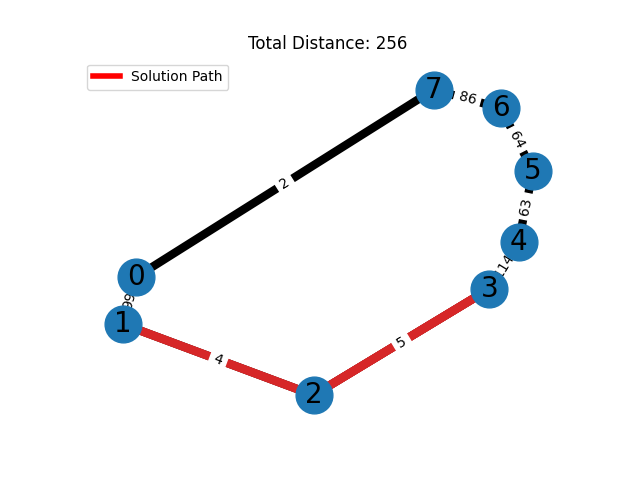
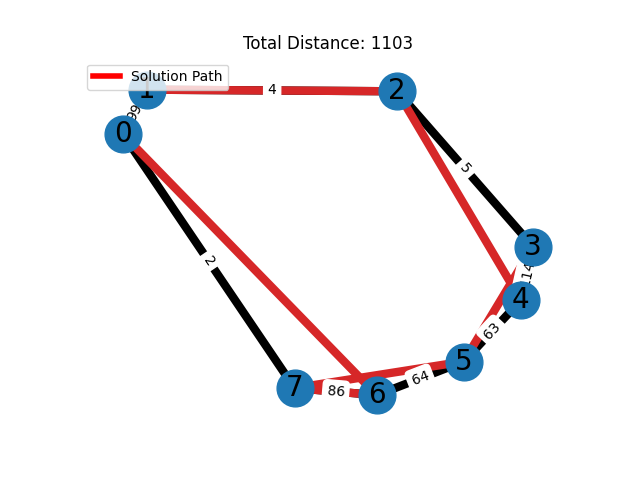
adding woc and buttons

Changed region(s): [[0.1562, 0.125, 0.875, 0.875], [0.375, 0.0625, 0.6562, 0.125]]

diff --git a/finalsourceCode.py b/finalsourceCode.py
@@ -4,20 +4,25 @@ from matplotlib.lines import Line2D
 import tkinter as tk
 from tkinter import filedialog
 import random
+import time
+
 # Define global variable to hold test data
 testdata = []
 
 # Function to open a file dialog and load test data
 def open_file():
     global testdata
-    file_path = filedialog.askopenfilename(filetypes=[("Text files", "*.txt")])
-    if file_path:
-        with open(file_path, "r") as file:
-            testdata = [list(map(int, line.split())) for line in file.readlines()]
+    try:
+        file_path = filedialog.askopenfilename(filetypes=[("Text files", "*.txt")])
+        if file_path:
+            with open(file_path, "r") as file:
+                testdata = [list(map(int, line.split())) for line in file.readlines()]
+    except Exception as e:
+        print(f"Error reading file: {e}")
            
 # Create a Tkinter window
 root = tk.Tk()
-root.title("Minimum Spanning Tree")
+root.title("Chinese Postman Problem")
 
 # Create a button to open the file dialog
 open_button = tk.Button(root, text="Open File", command=open_file)
@@ -36,21 +41,19 @@ def min_key(key, mst_set):
 
 # Function to create and draw the graph based on a solution
 def draw_graph(graph, solution=None, show=True):
-    # Draw the graph using the solution if provided, else draw the original graph
     pos = nx.spring_layout(graph)
     nx.draw_networkx_nodes(graph, pos, node_size=700)
     nx.draw_networkx_edges(graph, pos, edgelist=graph.edges(), width=6)
     
     if solution:
-        # Highlight the solution path
-        path_edges = list(zip(solution, solution[1:] + [solution[0]]))
+        path_edges = get_path_edges(solution)
         nx.draw_networkx_edges(graph, pos, edgelist=path_edges, width=6, edge_color="tab:red")
         
     nx.draw_networkx_labels(graph, pos, font_size=20, font_family="sans-serif")
     edge_labels = nx.get_edge_attributes(graph, 'weight')
     nx.draw_networkx_edge_labels(graph, pos, edge_labels=edge_labels)
-    
-    legend_elements = [Line2D([0], [0], color='red', lw=4, label='Solution Path' if solution else 'Eulerian Circuit')]
+
+    legend_elements = [Line2D([0], [0], color='red', lw=4, label='Solution Path')]
     plt.legend(handles=legend_elements, loc='upper left')
     plt.axis('off')
     plt.title(f"Total Distance: {calculate_fitness(graph, solution) if solution else 'N/A'}")
@@ -58,6 +61,15 @@ def draw_graph(graph, solution=None, show=True):
     
     if show:
         plt.show()
+
+def get_path_edges(solution):
+    # Logic to extract path edges correctly, considering repeated visits
+    path_edges = []
+    for i in range(len(solution) - 1):
+        path_edges.append((solution[i], solution[i + 1]))
+    path_edges.append((solution[-1], solution[0]))  # Closing the circuit
+    return path_edges
+
 
 
 def initialize_population(graph, population_size):
@@ -111,30 +123,39 @@ def mutate(solution, mutation_rate):
             solution[i], solution[swap_with] = solution[swap_with], solution[i]
     return solution
 
+# Function to aggregate solutions (Wisdom of Crowds)
+def aggregate_solutions(solutions):
+    # Implement your aggregation logic here. This could be as simple as choosing the best solution,
+    # or more complex like combining different parts of each solution.
+    best_solution = min(solutions, key=lambda x: x[1])
+    return best_solution[0]
+
+# Genetic Algorithm function adapted for CPP
 def genetic_algorithm(graph, population_size, generations, mutation_rate):
     population = initialize_population(graph, population_size)
-    
+    performance_log = []
+
     for g in range(generations):
+        start_time = time.time()
         new_population = []
         for _ in range(population_size // 2):
-            parent1, parent2 = select_parents(population, graph)
-            child1, child2 = crossover(parent1, parent2)
-            new_population.append(mutate(child1, mutation_rate))
-            new_population.append(mutate(child2, mutation_rate))
+            parents = select_parents(population, graph)
+            for parent in parents:
+                new_population.append(mutate(parent, mutation_rate))
         
-        # Evaluate the fitness of the new population
         population.sort(key=lambda x: calculate_fitness(graph, x))
-        # Replace the worst half with new solutions
         population = population[:population_size // 2] + new_population[:population_size // 2]
-        
-        # draw_graph(graph, population[0], show=True)
-        
-    # Draw the best solution found after all generations
-    draw_graph(graph, population[0], show=True)
-    
-    return population[0]  # Return the best solution found
 
-def run_ga():
+        best_fitness = calculate_fitness(graph, population[0])
+        performance_log.append((g, best_fitness, time.time() - start_time))
+
+    best_solution = population[0]
+    best_distance = calculate_fitness(graph, best_solution)
+    print(f"Best Path: {best_solution}, Distance: {best_distance}")
+    draw_graph(graph, best_solution, show=True)
+    return best_solution, best_distance, performance_log
+
+def run_ga_woc():
     global testdata
     G = nx.Graph()
     for i, row in enumerate(testdata):
@@ -142,15 +163,42 @@ def run_ga():
             if weight != 0:
                 G.add_edge(i, j, weight=weight)
     
-    # Run the genetic algorithm to find the best solution
-    best_solution = genetic_algorithm(G, population_size=50, generations=100, mutation_rate=0.3)
-    
-    # Draw the graph with the best solution found by the GA, only showing the final result
+    solutions = []
+    for _ in range(5):  # Run 5 independent GAs
+        solution, distance, log = genetic_algorithm(G, population_size=50, generations=100, mutation_rate=0.3)
+        solutions.append((solution, distance, log))
+
+    # Aggregate solutions using WoC
+    best_solution = aggregate_solutions(solutions)
+    best_distance = calculate_fitness(G, best_solution)
+    print(f"WoC Best Path: {best_solution}, Distance: {best_distance}")
     draw_graph(G, best_solution, show=True)
 
 
+# Labels and entries for GA parameters
+label_population_size = tk.Label(root, text="Population Size:")
+label_population_size.pack()
+
+entry_population_size = tk.Entry(root)
+entry_population_size.pack()
+entry_population_size.insert(0, "50")  # Default value
+
+label_generations = tk.Label(root, text="Generations:")
+label_generations.pack()
+
+entry_generations = tk.Entry(root)
+entry_generations.pack()
+entry_generations.insert(0, "100")  # Default value
+
+label_mutation_rate = tk.Label(root, text="Mutation Rate:")
+label_mutation_rate.pack()
+
+entry_mutation_rate = tk.Entry(root)
+entry_mutation_rate.pack()
+entry_mutation_rate.insert(0, "0.3")  # Default value
+
 # Modify the Tkinter setup to include a button to run the GA
-ga_button = tk.Button(root, text="Run Genetic Algorithm", command=run_ga)
-ga_button.pack()
+woc_button = tk.Button(root, text="Run GA with WoC", command=run_ga_woc)
+woc_button.pack()
 
 root.mainloop()
